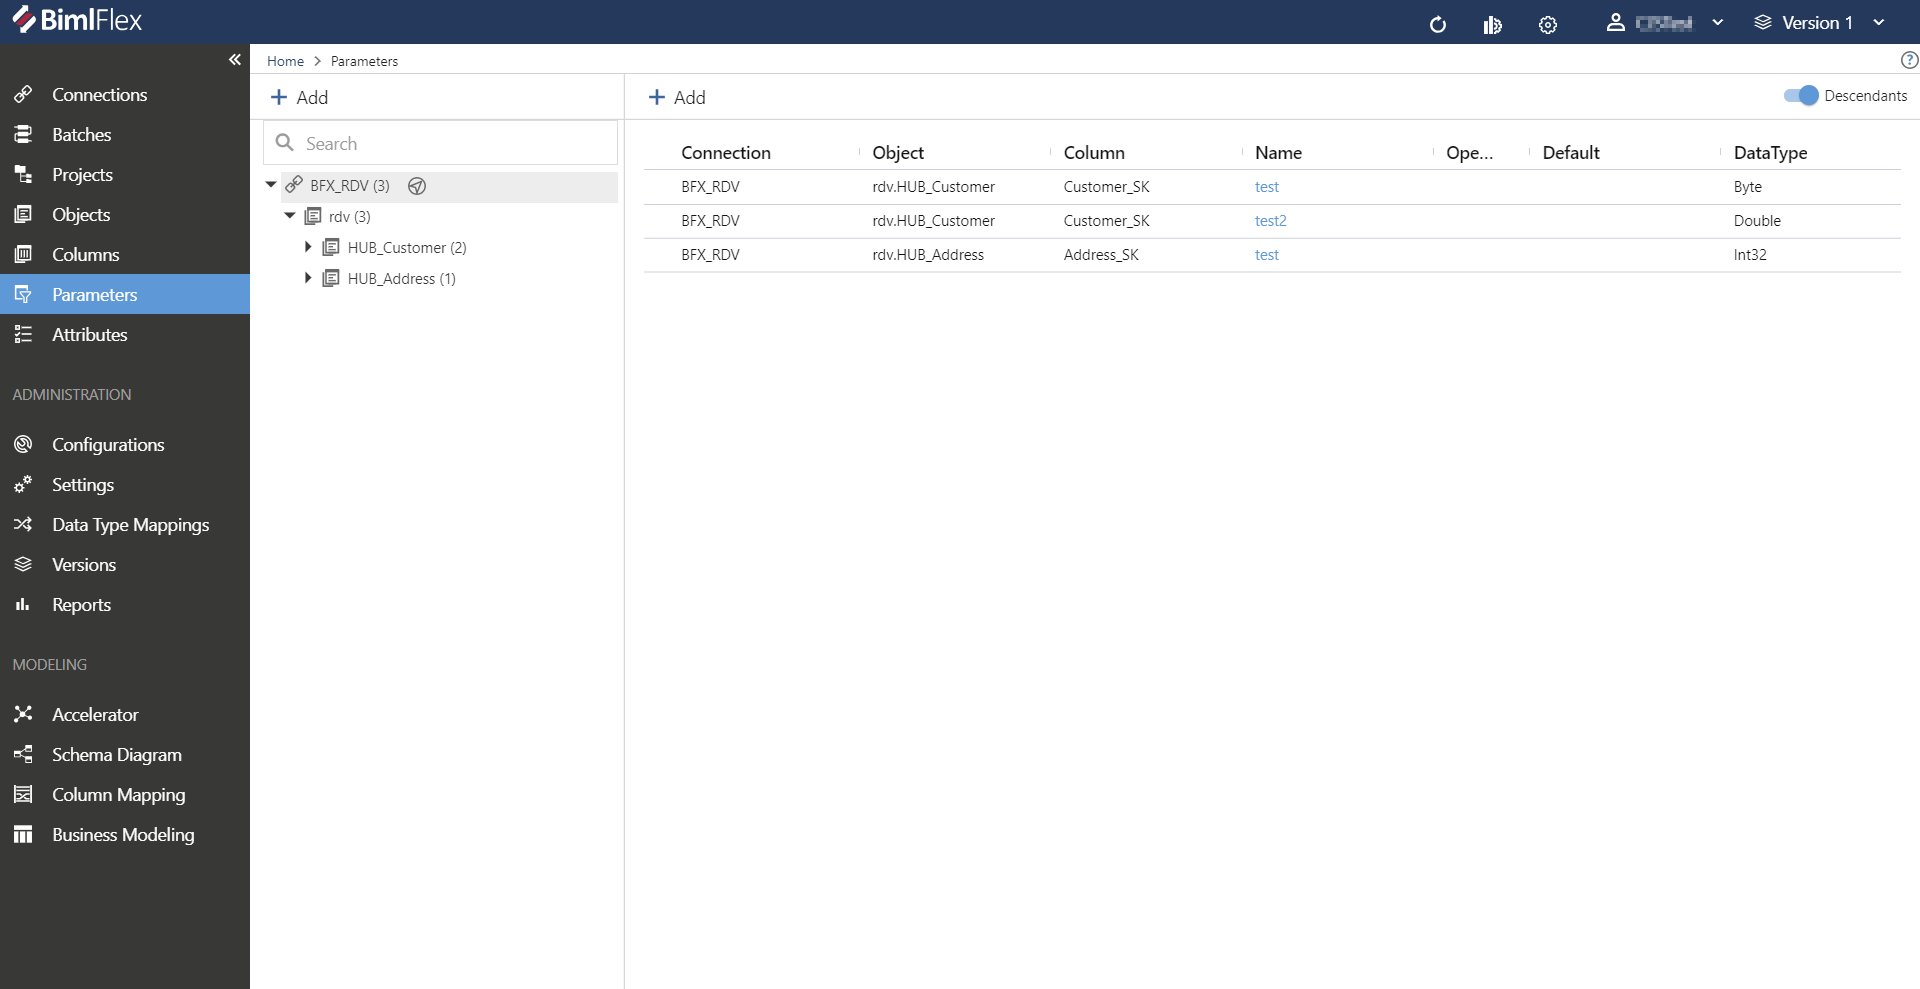
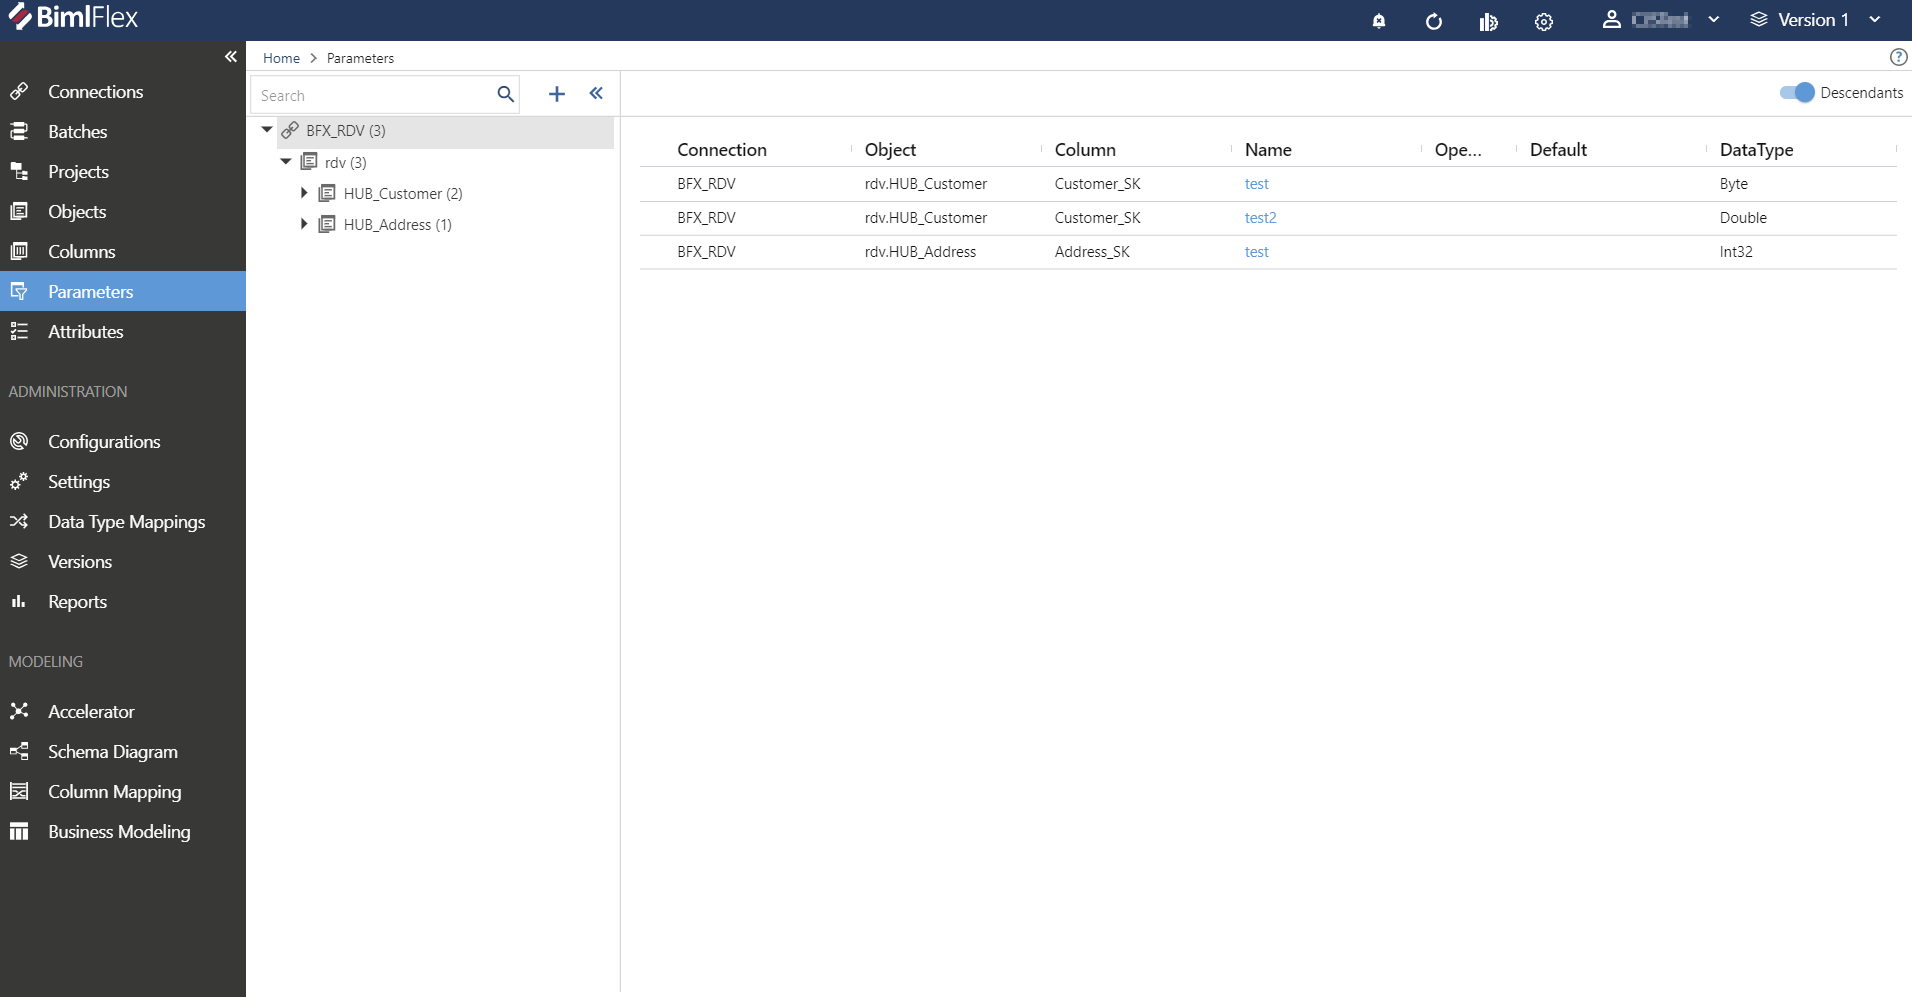
edits to parameters for tree view side nav, minor edit to objects

diff --git a/bimlflex/metadata-editors/parameters.md b/bimlflex/metadata-editors/parameters.md
@@ -28,12 +28,24 @@ The following sections describe the UI elements of the **Parameters Editor** and
 **Parameters** within BimlFlex are displayed in a hierarchical tree view on the left sidenav menu.
 The number of active parameters will be displayed next to the Object names in parentheses.
 
-Selecting an Object with a single Parameter will immediately navigate the user to the Parameter edit screen.
+Selecting an **Object** with a single **Parameter** will immediately navigate the user to the Parameter edit screen.
 
-Selecting an Object with multiple Parameters will display a list of all active parameters within. The user may navigate to any Parameter by selecting from the displayed list.
+Selecting an **Object** with multiple **Parameters** will display a list of all active parameters within. The user may navigate to any **Parameter** by selecting from the displayed list.
 
-Any instance of the 'Compass' icon will serve as a Global Navigation Transition.
-Clicking this icon will navigate the user directly to the referenced Connection or Object.
+![BimlFlex Parameters - Listview](images/bfx-parameters-listview.png "BimlFlex Parmeters - Listview")
+
+The tree view for **Parameters** is expandable/collapsible by clicking the `<<` icon.
+
+Any instance of the `'Compass'` icon will serve as a Global Navigation Transition.
+Clicking this icon will navigate the user directly to the referenced **Connection, Object,** or **Column.**
+
+Toggling `Descendants` will enable or disable all parameters for both the currently selected node and all of its descendant nodes.
+This option is enabled by default.
+
+The Search field is contained within the tree view menu, and will be hidden when collapsed.
+The Search field will return results in realtime, only presenting Parameters containing the term being searched.
+
+![BimlFlex Parameters - Search Field](images/bfx-parameters-search-field.png "BimlFlex Parameters - Search Field")
 
 ## Action Buttons  
 

diff --git a/bimlflex/metadata-editors/objects.md b/bimlflex/metadata-editors/objects.md
@@ -34,7 +34,7 @@ Selecting an **Object** with multiple tables/columns will display a secondary li
 
 ![BimlFlex Objects Editor - List](images/bfx-object-editor-listview.png "BimlFlex Objects Editor - List")
 
-The tree view for Objects is expandable/collapsible by clicking the `<<` icon.
+The tree view for **Objects** is expandable/collapsible by clicking the `<<` icon.
 
 Any instance of the `'Compass'` icon will serve as a Global Navigation Transition.
 Clicking this icon will navigate the user directly to the referenced **Connection, Object,** or **Column.**
